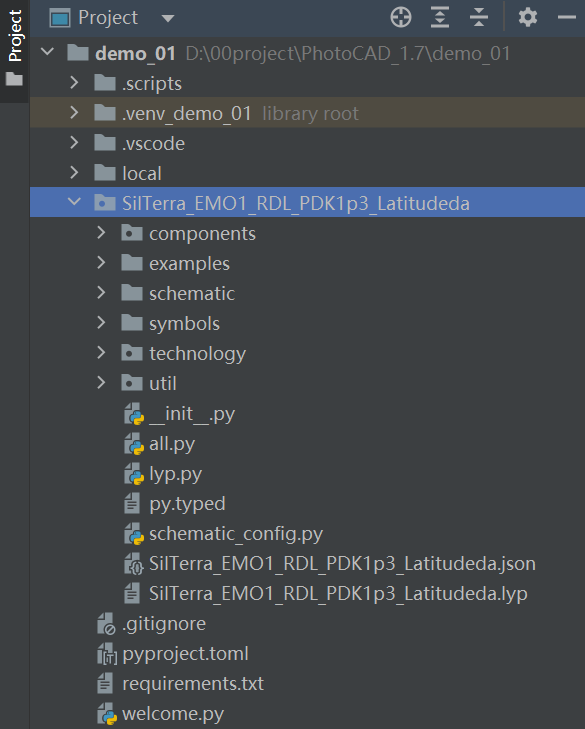
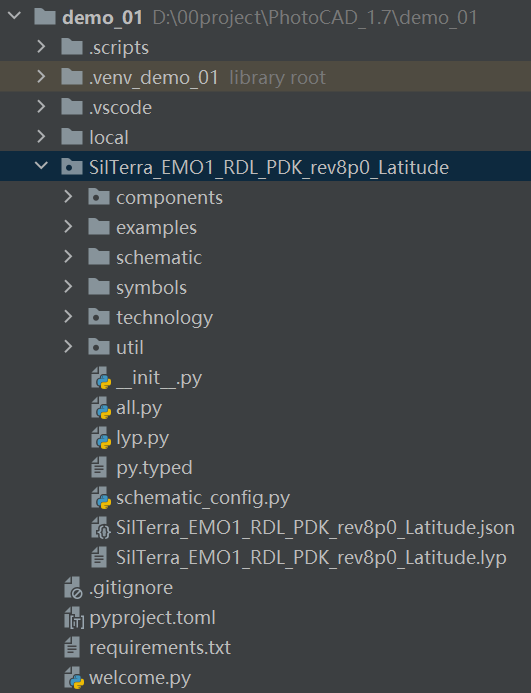
update to rev8

Changed region(s): [[0.0, 0.0, 1.0, 1.0], [0.8738, 0.0, 0.9341, 0.0606], [0.9642, 0.0, 0.9944, 0.0303]]

diff --git a/docs/source/conf.py b/docs/source/conf.py
@@ -6,8 +6,8 @@ project = 'SilTerra EMO1 RDL PDK Documentation'
 copyright = '2025, Latitudeda.com'
 author = 'www.latitudeda.com'
 
-release = '1.3'
-version = '1.3.0'
+release = '8.0'
+version = '8.0'
 
 # -- General configuration
 

diff --git a/docs/source/quick_start/ASDL.rst b/docs/source/quick_start/ASDL.rst
@@ -4,49 +4,30 @@ AdvancedSDL
 Import SilTerra PDK into AdvancedSDL
 *******************************************
 
-Copy the SilTerra PDK folder to the **AdvancedSDL** installation path: ``...\AdvancedSDL\Python\Lib\site-packages``.
+Open AdvancedSDL and click ``File > New Project``.
+Enter the project name and path, select ``SilTerra`` PDK in the PDK column, and click ``Save``.
 
 .. image:: ../images/ASDL_0.png
 
-Click ``PDK`` on the top toolbar of **AdvancedSDL** and select ``Open PDK Symbol Design``.
+Wait for the contents of ``The pdk load succeed`` to appear in the output.
 
 .. image:: ../images/ASDL_1.png
 
-Locate and select the ``SilTerra`` folder.
+Right-click on the ``circuits`` of the project, click ``New Circuit``, type ``circuit name`` and click ``Save``.
 
 .. image:: ../images/ASDL_2.png
 
-After the import is complete, you will see the ``SilTerra`` PDK component library on the left.
+Drag components to the center region. Click on the component, the parameters of the component can be adjusted on the right side.
 
 .. image:: ../images/ASDL_3.png
 
-Click ``File`` and then click ``New Project``.
+Once the parameters are set, connect the ports to route the components and click SDL in the upper right.
 
 .. image:: ../images/ASDL_4.png
 
-Enter the project name and path, select ``SilTerra`` PDK in the PDK column, and click ``Save``.
-
-.. image:: ../images/ASDL_5.png
-
-Wait for the contents of ``Import SilTerra_EMO1_RDL_PDK1p3_Latitudeda pdk symbols succeed`` to appear in the output.
-
-.. image:: ../images/ASDL_6.png
-
-Right-click on the ``circuits`` of the project, click ``New Circuit``, type ``circuit name`` and click ``Save``.
-
-.. image:: ../images/ASDL_7.png
-
-Drag components to the center region. Click on the component, the parameters of the component can be adjusted on the right side.
-
-.. image:: ../images/ASDL_8.png
-
-Once the parameters are set, connect the ports to route the components and click SDL in the upper right.
-
-.. image:: ../images/ASDL_10.png
-
 The corresponding layout is displayed in the ``Layout View``. And it generates python layout code called ``Generated-Script.py``, which can be run and used in **PhotoCAD**.
 
-.. image:: ../images/ASDL_11.png
+.. image:: ../images/ASDL_5.png
 
 The ``Generated-Script.py`` can be run in **PhotoCAD** and modified to create a new layout. The script is saved in the project's Temp folder.
 

diff --git a/docs/source/quick_start/PhotoCAD.rst b/docs/source/quick_start/PhotoCAD.rst
@@ -39,7 +39,7 @@ After the configuration, click ``Create and Open`` and the workspace will be aut
 
 .. image:: ../images/PhotoCAD_3.png
 
-Double-click the ``welcome.py`` in demo the folder. Run this code by right-clicking on the code interface and selecting ``Run 'welcome'``.
+Double-click the ``welcome.py`` in the demo folder. Run this code by right-clicking on the code interface and selecting ``Run 'welcome'``.
 
 .. image:: ../images/PhotoCAD_4.png
 
@@ -53,13 +53,14 @@ Import SilTerra PDK into PhotoCAD
 
 First, make sure that the SilTerra PDK version matches the version of **PhotoCAD**. The version of **PhotoCAD** can be obtained in ``Run`` by running scripts in **PhotoCAD**.
 
-Extract the ``SilTerra_EMO1_RDL_PDK1p3_Latitudeda`` zip archive and copy it to the workspace folder. As shown in the figure below, the ``SilTerra_EMO1_RDL_PDK1p3_Latitudeda`` folder is in the demo folder and parallel to .vene_demo.
+Extract the ``SilTerra_EMO1_RDL_PDK_rev8p0_Latitude`` zip archive and copy it to the workspace folder. As shown in the figure below, the ``SilTerra_EMO1_RDL_PDK_rev8p0_Latitude`` folder is in the demo folder and parallel to .vene_demo.
 
 .. image:: ../images/PhotoCAD_6.png
+   :width: 60%
 
-It's important to note that the PDK folder structure is the same as in the figure. Subfolders such as ``components`` and ``examples`` should be seen when expanding the ``SilTerra_EMO1_RDL_PDK1p3_Latitudeda`` folder. Otherwise, the import path will be wrong when you run the code.
+It's important to note that the PDK folder structure is the same as in the figure. Subfolders such as ``components`` and ``examples`` should be seen when expanding the ``SilTerra_EMO1_RDL_PDK_rev8p0_Latitude`` folder. Otherwise, the import path will be wrong when you run the code.
 
-Open and run ``SilTerra_EMO1_RDL_PDK1p3_Latitudeda/examples/link_test.py``. PDK will be imported successfully if there are no errors and ``link_test.gds`` will be exported.
+Open and run ``SilTerra_EMO1_RDL_PDK_rev8p0_Latitude/examples/link_test.py``. PDK will be imported successfully if there are no errors and ``link_test.gds`` will be exported.
 
 .. image:: ../images/PhotoCAD_7.png
 

diff --git a/docs/source/tech/layers.rst b/docs/source/tech/layers.rst
@@ -1,7 +1,7 @@
 layers.py
 ==============
 
-The layers are auto-generated by filling the ``layers.csv`` file, ``FLYLINE_MARK`` / ``PINREC_NOTE`` / ``PINREC_TEXT`` / ``DEVREC_NOTE`` layer are defined by **Latitudeda** for display.
+The layers are auto-generated by filling the ``layers.csv`` file, ``PINREC_NOTE`` / ``PINREC_TEXT`` / ``DEVREC_NOTE`` / ``FLYLINE_MARK`` / ``ERROR_MARK`` layers are defined by **Latitude** for display.
 
 ::
 
@@ -56,6 +56,8 @@ The layers are auto-generated by filling the ``layers.csv`` file, ``FLYLINE_MARK
         Oxide_Facet = Layer(PROCESS.OF, PURPOSE.DRW, 'Deepoxide, deep silicon and/or isotropic etch')
         DeepTrench = Layer(PROCESS.DET, PURPOSE.DRW, 'Deep oxide and silicon etch')
         DM_Excl = Layer(PROCESS.DME, PURPOSE.DRW, 'Dummy exclusion region')
+        FE_DM_Excl = Layer(PROCESS.DME, PURPOSE.FE, 'Front-end layers dummy fill exclusion region')
+        BE_DM_Excl = Layer(PROCESS.DME, PURPOSE.BE, 'Back-end layers dummy fill exclusion region')
         Exclusion = Layer(PROCESS.ECL, PURPOSE.DRW, 'DRC check exclusion recognition layer')
         Cell_Boundaries = Layer(PROCESS.CB, PURPOSE.DRW, 'Frame cell boundaries/outline layer')
         PINREC_NOTE = Layer(PROCESS.PINREC, PURPOSE.NOTE, 'Pin rectangle')
@@ -65,5 +67,4 @@ The layers are auto-generated by filling the ``layers.csv`` file, ``FLYLINE_MARK
         ERROR_MARK = Layer(PROCESS.ERROR, PURPOSE.MARK, 'Error mark')
 
 
-
-For users using layout viewers (e.g. KLayout), they can import the layer properties file ``SilTerra_EMO1_RDL_PDK1p3_Latitudeda.lyp`` in the file folder.
+For users using layout viewers (e.g. KLayout), they can import the layer properties file ``SilTerra_EMO1_RDL_PDK_rev8p0_Latitude.lyp`` in the file folder.

diff --git a/docs/source/structure/index.rst b/docs/source/structure/index.rst
@@ -3,13 +3,13 @@ PDK structure
 
 Process Design Kit (PDK) is a tool for designated users to generate circuit layouts based on SilTerra design rules and technology settings.
 
-``SilTerra_EMO1_RDL_PDK1p3_Latitudeda`` package includes these subfolders: ``components``, ``examples``, ``technology``, and ``util``.
+``SilTerra_EMO1_RDL_PDK_rev8p0_Latitude`` package includes these subfolders: ``components``, ``examples``, ``technology``, and ``util``.
 
 * ``components``
 
     * Fixed cells: All fixed cells, including ``Fixed_GC_C``, ``FixedMMI_1X2_C``, etc, are designed by **SilTerra** and cannot be changed.
 
-    * Parametrized cells (PCells): Designed by **LDA**, including ``Bend``, ``Straight``, etc. Please see ``gpdk > components`` for more designed components by **LDA**.
+    * Parametrized cells (PCells): Designed by **Latitude**, including ``Bend``, ``Straight``, etc. Please see ``gpdk > components`` for more designed components by **Latitude**.
 
 * ``examples``
 
@@ -28,7 +28,8 @@ Process Design Kit (PDK) is a tool for designated users to generate circuit layo
 
     * Please see **PhotoCAD** online manual for more information.
 
-* ``SilTerra_EMO1_RDL_PDK1p3_Latitudeda.lyp`` : This file allows layout tools e.g. Klayout to recognize the layer information when displaying gds file to the layout tool.
+* ``SilTerra_EMO1_RDL_PDK_rev8p0_Latitude.lyp`` : This file allows layout tools e.g. Klayout to recognize the layer information when displaying gds file to the layout tool.
 
     .. image:: ../images/lyp.png
+       :width: 80%
 

diff --git a/docs/source/intro/install_photocad.rst b/docs/source/intro/install_photocad.rst
@@ -3,6 +3,7 @@ Install PhotoCAD and SilTerra PDK
 
 After installing PyCharm, you can create a **PhotoCAD** project by following the instructions in the **PhotoCAD Launcher**. Once created, you can find the completed **fnpcell** and **gpdk** packages in ``Lib>site-packages``. **fnpcell** is the main package of **PhotoCAD**, which is used for parametric layout component scripts and layout routing scripts. **gpdk** is a collection of all examples in **PhotoCAD**. It contains both component cell layout scripts and other design templates based on parametric component cells.
 
-To install SilTerra PDK package to **PhotoCAD**, extract ``SilTerra_EMO1_RDL_PDK1p3_Latitudeda.zip`` to the project folder.
+To install SilTerra PDK package to **PhotoCAD**, extract ``SilTerra_EMO1_RDL_PDK_rev8p0_Latitude.zip`` to the project folder.
 
 .. image:: ../images/install.png
+   :width: 60%

diff --git a/docs/source/index.rst b/docs/source/index.rst
@@ -4,12 +4,12 @@ SilTerra EMO1 RDL documentation
    :width: 100%
    :align: center
 
-This documentation outlines the contents and usage of the **Latitudeda PDK** for **SilTerra EMO1 RDL** (v1.3).
+This documentation outlines the contents and usage of the **Latitude PDK** for **SilTerra EMO1 RDL** (rev8).
 
 The PDK is compatible with **PhotoCAD** and **Advanced SDL** for layout generation. Key features and capabilities include:
 
 - Designing custom components using the defined layers from **SilTerra EMO1 RDL**.
-- Creating circuits with **SilTerra**'s predefined components and **Latitudeda**'s base PCell.
+- Creating circuits with **SilTerra**'s predefined components and **Latitude**'s base PCell.
 - Automating routing with supported waveguide types and metal line configurations.
 
 This documentation is organized into the following sections:
